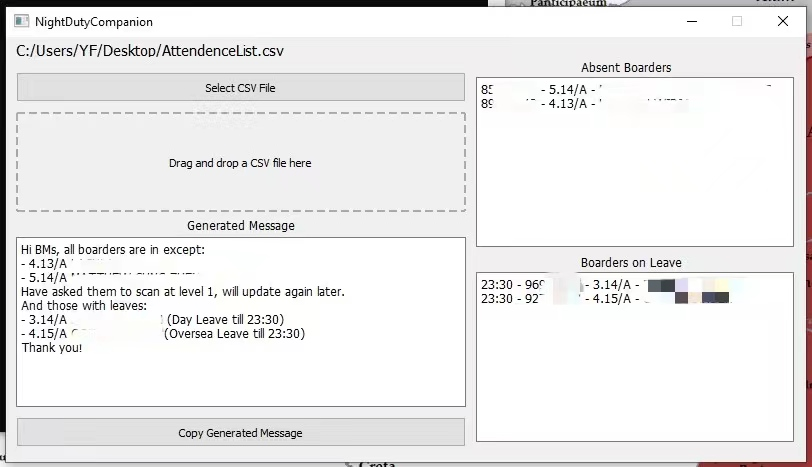
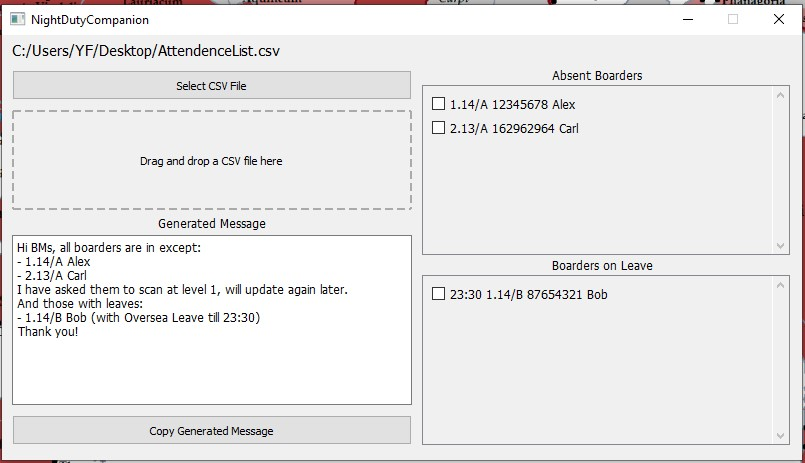
Update Documentation

diff --git a/docs/README.md b/docs/README.md
@@ -1,5 +1,17 @@
 ## User Guide
 
+- [User Guide](#user-guide)
+  * [Step 1: Export Attendance Data from BMS](#step-1--export-attendance-data-from-bms)
+  * [Step 2: Fixing Corrupted Format Issues](#step-2--fixing-corrupted-format-issues)
+  * [Step 3: Running NightDutyCompanion](#step-3--running-nightdutycompanion)
+  * [Step 4: Analyzing Attendance Data](#step-4--analyzing-attendance-data)
+  * [Step 5: Copying Generated Message](#step-5--copying-generated-message)
+  * [Step 6: Check the Absent Boarders and Boarders on Leave](#step-6--check-the-absent-boarders-and-boarders-on-leave)
+- [More to Come..](#more-to-come)
+- [Disclaimer](#disclaimer)
+
+<small><i><a href='http://ecotrust-canada.github.io/markdown-toc/'>Table of contents generated with markdown-toc</a></i></small>
+
 ### Step 1: Export Attendance Data from BMS
 
 1. Login to the BMS (Boarding Management System).
@@ -44,26 +56,25 @@
    
    ![Analysis Result](Result.jpg)
    
-   Note: Boarder's information is blurred for privacy.
+   
 
 ### Step 5: Copying Generated Message
 
 1. You can directly copy the generated message by clicking the "Copy Generated Message" button.
 2. The message will be copied to your clipboard for easy pasting.
+3. The Generated Message sections in NightDutyCompanion is editable. Feel free to make any necessary edits to the text as needed.
 
-### Step 6: Editing Text Sections
+### Step 6: Check the Absent Boarders and Boarders on Leave
 
-1. All three text sections in NightDutyCompanion are editable.
-2. Feel free to make any necessary edits to the text as needed.
+1. You use the two check box list on the right side of  the app to help you keep track of the boarders status.
 
-## Coming Soon...
+## More to Come..
 
-In future updates, the Absent Boarders section and Boarders on Leaves section will be implemented as a checkbox list. This enhancement will allow for easier selection of boarders' names when performing duties. Stay tuned for these improvements in upcoming versions of NightDutyCompanion.
-
-And more …
+1. Auto Fix Corrupted XLS Files: NightDutyCompanion will introduce an automatic file format fixing feature. Instead of manually saving the downloaded XLS file as a CSV, the application will handle the conversion process internally, ensuring that any corrupted format issues are resolved seamlessly.
+2. UI Beautification: NightDutyCompanion will undergo a UI enhancement to improve the overall visual appeal and user experience. The updated user interface will be more intuitive, user-friendly, and aesthetically pleasing, making it even easier to navigate and use the application effectively.
 
 ## Disclaimer
 
 Please note that this project has not undergone rigorous testing and may contain potential bugs and feature flaws. If you encounter any issues or have suggestions for improvements, please kindly contact me or simply raise an issue in the IssueTracker of this Repo. Thank you for your understanding!
 
-Enjoy using NightDutyCompanion to streamline your night duty tasks!
+Enjoy!

diff --git a/README.md b/README.md
@@ -27,7 +27,7 @@ Please refer to the [User Guide](https://yufannnn.github.io/NightDutyCompanion/)
 
 My friend and I have tested multiple times, the data downloading and cleaning process should last last than 1 minute. Also, the Automation process can prevent human errors, ideally.
 
-NightDutyCompanion is an ongoing project and may have potential bugs and feature limitations. Please don't solely rely on its results.
+NightDutyCompanion is an ongoing project and may have potential bugs and feature limitations. Please don't solely rely on its results at current stage.
 
 Your feedback and suggestions are greatly appreciated. If you encounter any issues or have ideas for improvement, please feel free to contact me.
 
